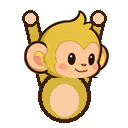
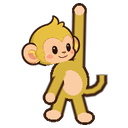
feat(B17): 원숭이 상점 아이콘을 실제 리그로 + 빈 팔 원통 이음매 제거 + 기동 Tree.Hit 오류 수정
- 빈 팔: 외곽선을 팔 중간(38%)부터 손까지만 - 어깨 쪽은 몸통과 털색으로 이어져 원통을 붙인 느낌이 사라진다
- 원숭이 아이콘: --make-icons (디버그 무인)가 CursorOrnament 를 SubViewport 에 두 배로 그려 icon.png 저장.
  바나나는 빼고 정사각형 - 상점 목록에서 원숭이가 크게 보인다. make-monkey-parts.py 는 아이콘을 안 만든다
- 기동 때 IndexOutOfRange (Tree.Hit): 슬롯 수가 바뀐 프레임에 타건이 나무 동기화보다 먼저 오던 경합.
  OnKeystrokes 가 먼저 SyncSlots, Hit 에 범위 검사

diff --git a/platform/OverlayShell.StoreShots.cs b/platform/OverlayShell.StoreShots.cs
@@ -39,6 +39,94 @@ public partial class OverlayShell
         "halo_01", "ring_01",
     };
 
+    private const string MakeIconsArg = "--make-icons";
+
+    /// <summary>
+    /// 원숭이 상점 아이콘을 실제 리그로 그려서 저장한다 (B17) - <c>assets/cursor/monkey/&lt;id&gt;/icon.png</c>.
+    /// 파이썬으로 리그를 흉내 내 그리면 게임의 원숭이와 달라진다. 디버그 빌드 무인 실행.
+    /// <code>Godot.exe --path . -- --make-icons</code> 뒤에 <c>--import</c> 를 다시 돌린다(게임은 임포트된 사본을 읽는다).
+    /// </summary>
+    private static bool IsMakeIconsRun() =>
+        OS.IsDebugBuild() && Array.IndexOf(OS.GetCmdlineUserArgs(), MakeIconsArg) >= 0;
+
+    private async void StartMakeIcons()
+    {
+        if (!IsMakeIconsRun())
+        {
+            return;
+        }
+
+        const int Icon = 128, Render = 2;
+        try
+        {
+            foreach (ItemManifest.Entry entry in ItemManifest.Items)
+            {
+                if (entry.Slot != CursorSlot.Monkey)
+                {
+                    continue;
+                }
+
+                // 두 배로 그려서 줄인다 - 외곽선이 매끈해진다. 원점(커서 끝) 기준 리그는 대략 x -45~+37, y 0~125 다.
+                var viewport = new SubViewport
+                {
+                    Size = new Vector2I(96 * Render, 132 * Render),
+                    TransparentBg = true,
+                    Disable3D = true,
+                    RenderTargetUpdateMode = SubViewport.UpdateMode.Always,
+                };
+                AddChild(viewport);
+                var ornament = new CursorOrnament
+                {
+                    Still = true,
+                    Position = new Vector2(50, 2) * Render,
+                    Scale = Vector2.One * Render,
+                };
+                viewport.AddChild(ornament);
+                // 바나나는 안 그린다 - 목록 칸(44px)에서 원숭이가 작아진다. 잡은 팔이 아이콘 위로 나가서 "매달린" 건 보인다.
+                ornament.Equip(CursorSlot.Monkey, entry.Id);
+
+                // 꼬리 사슬이 자리를 잡을 때까지 몇 프레임 굴린다
+                for (int i = 0; i < 20; i++)
+                {
+                    ornament.Tick(0.05);
+                    await ToSignal(RenderingServer.Singleton, "frame_post_draw");
+                }
+
+                Image image = viewport.GetTexture().GetImage();
+                // 정사각형으로 - 세로로 긴 그림을 그대로 줄이면 원숭이가 가늘어진다.
+                Rect2I used = image.GetUsedRect();
+                int side = Math.Max(used.Size.X, used.Size.Y);   // 머리 꼭대기가 잡은 손 높이와 비슷해서 높이 전부가 한 변이다
+                var square = new Rect2I(
+                    used.Position.X + used.Size.X / 2 - side / 2,
+                    used.End.Y - side,
+                    side,
+                    side);
+                Image cropped = Image.CreateEmpty(side, side, false, Image.Format.Rgba8);
+                image.Convert(Image.Format.Rgba8);
+                cropped.BlitRect(image, square, Vector2I.Zero);
+                float k = (Icon - 6f) / Math.Max(cropped.GetWidth(), cropped.GetHeight());
+                cropped.Resize(Math.Max(1, (int)(cropped.GetWidth() * k)), Math.Max(1, (int)(cropped.GetHeight() * k)), Image.Interpolation.Lanczos);
+
+                Image icon = Image.CreateEmpty(Icon, Icon, false, Image.Format.Rgba8);
+                cropped.Convert(Image.Format.Rgba8);
+                icon.BlitRect(cropped, new Rect2I(Vector2I.Zero, cropped.GetSize()),
+                    new Vector2I((Icon - cropped.GetWidth()) / 2, (Icon - cropped.GetHeight()) / 2));
+
+                string path = ProjectSettings.GlobalizePath(ItemManifest.IconPath(CursorSlot.Monkey, entry.Id));
+                icon.SavePng(path);
+                GD.Print($"[make-icons] {entry.Id} -> {path}");
+                viewport.QueueFree();
+            }
+
+            GetTree().Quit(0);
+        }
+        catch (Exception e)
+        {
+            GD.PrintErr($"[make-icons] 실패 - {e}");
+            GetTree().Quit(1);
+        }
+    }
+
     private static bool IsStoreShotRun() =>
         OS.IsDebugBuild() && Array.Exists(OS.GetCmdlineUserArgs(), a => a.StartsWith(StoreShotPrefix, StringComparison.Ordinal));
 

diff --git a/tools/make-monkey-parts.py b/tools/make-monkey-parts.py
@@ -11,7 +11,7 @@
 스킨마다 (assets/cursor/monkey/<id>/):
   head.png   머리 (털 색만 바꾼다 — 얼굴·귀 안쪽·외곽선은 그대로)
   skin.json  몸을 그릴 색 + 머리의 목·눈 좌표 + 장신구
-  icon.png   상점·도감 아이콘 (128x128) — 머리 + 간단한 몸
+  (icon.png 는 여기서 안 만든다 - 게임이 실제 리그로 그린다: Godot.exe --path . -- --make-icons)
 
 원숭이 목록·이름은 game/shop/items.json. 여기 SKINS 에 규칙이 없는 id 는 만들지 않는다.
 """
@@ -120,26 +120,6 @@ def draw_tufts(head, color):
     return head
 
 
-def icon_for(head, colors):
-    """상점 아이콘: 머리 + 짧은 몸과 들어 올린 팔 (리그 모습을 대충 흉내)."""
-    size = 128
-    c = Image.new("RGBA", (size, size), (0, 0, 0, 0))
-    d = ImageDraw.Draw(c)
-    fur, belly, ol = colors["fur"], colors["belly"], colors["outline"]
-    # 팔 (위로)
-    for x0, x1 in ((46, 30), (82, 98)):
-        d.line([(x0, 86), (x1, 18)], fill=ol + (255,), width=15)
-        d.line([(x0, 86), (x1, 18)], fill=fur + (255,), width=9)
-        d.ellipse((x1 - 8, 10, x1 + 8, 26), fill=belly + (255,), outline=ol + (255,), width=3)
-    # 몸
-    d.ellipse((38, 70, 90, 122), fill=fur + (255,), outline=ol + (255,), width=4)
-    d.ellipse((50, 84, 78, 116), fill=belly + (255,))
-    k = 86 / head.width
-    small = head.resize((round(head.width * k), round(head.height * k)), Image.LANCZOS)
-    c.alpha_composite(small, ((size - small.width) // 2 + 2, 78 - small.height))
-    return c
-
-
 def main():
     ids = [i["id"] for i in json.loads(ITEMS.read_text(encoding="utf-8"))["items"] if i["category"] == "monkey"]
     head, box = head_from_sheet()
@@ -162,7 +142,6 @@ def main():
         folder = OUT / item_id
         folder.mkdir(parents=True, exist_ok=True)
         h.save(folder / "head.png", optimize=True)
-        icon_for(h, colors).save(folder / "icon.png", optimize=True)
         skin = {
             "$comment": "tools/make-monkey-parts.py 가 만든다 - 손으로 고치지 않는다",
             "head": {"size": list(h.size), "neck": list(neck), "eyes": [list(e) for e in eyes]},

diff --git a/shared/Cursor/MonkeyRig.cs b/shared/Cursor/MonkeyRig.cs
@@ -81,6 +81,9 @@ public partial class MonkeyRig : Node2D
     private const float ArmWidth = 6f, LegWidth = 6.5f, LegLength = 15f, FreeArmLength = 20f;
     private const float TailSegment = 4.6f;
 
+    /// <summary>빈 팔의 외곽선이 시작되는 자리 (어깨 0 ~ 손 1). 그 앞은 몸통과 털색으로 이어진다.</summary>
+    private const float FreeArmOutlineFrom = 0.38f;
+
     /// <summary>빈 팔을 늘어뜨린 각도.</summary>
     private const float RestArm = 0.35f;
 
@@ -467,8 +470,10 @@ public partial class MonkeyRig : Node2D
 
         DrawCircle(grip, 3.6f, belly);
 
-        // 3) 빈 팔 - 몸 앞. 어깨 쪽 끝은 몸통 안에 묻혀서 외곽선 반원이 어깨 관절처럼 보인다.
-        Stroke(shoulderL, hand, ArmWidth + Edge, ol);
+        // 3) 빈 팔 - 몸 앞. **외곽선은 팔 중간부터 손까지만** 그린다. 어깨까지 외곽선을 두르면 둥근 끝이 "몸에
+        //    붙인 원통" 처럼 보였다 (2026-09-26 갑). 어깨 쪽은 털색끼리 이어져 몸에서 뻗어 나온 것처럼 보인다.
+        Vector2 outlineFrom = shoulderL.Lerp(hand, FreeArmOutlineFrom);
+        Stroke(outlineFrom, hand, ArmWidth + Edge, ol);
         DrawCircle(hand, 3.6f + Edge / 2, ol);
         Stroke(shoulderL, hand, ArmWidth, fur);
         DrawCircle(hand, 3.6f, belly);

diff --git a/platform/OverlayShell.cs b/platform/OverlayShell.cs
@@ -302,6 +302,7 @@ public partial class OverlayShell : Node2D, IShell, IPlatformServices
         ParseAutoReportArgs();
         StartMeasureFriends();
         StartStoreShot();
+        StartMakeIcons();
 
         GD.Print($"[shell] ready. screens={DisplayServer.GetScreenCount()} cores={_perf.Cores}");
     }
@@ -350,7 +351,8 @@ public partial class OverlayShell : Node2D, IShell, IPlatformServices
         // 앞으로 --net-selftest 같은 게 늘어도 같은 실수가 반복되지 않게 접미사로 잡는다.
         return Array.Exists(args, a => a.EndsWith("selftest", StringComparison.Ordinal))
             || Array.Exists(args, a => a.StartsWith("--report=", StringComparison.Ordinal))
-            || IsStoreShotRun();
+            || IsStoreShotRun()
+            || IsMakeIconsRun();
     }
 
     /// <summary>

diff --git a/game/GameRoot.cs b/game/GameRoot.cs
@@ -627,6 +627,11 @@ public partial class GameRoot : Node2D, IInteractiveArea, IPlatformConsumer
         int harvested = 0;
         int flashIndex = -1;
         IReadOnlyList<SlotState> slots = _platform.Economy.Slots;
+
+        // 나무 그림을 지금 슬롯에 먼저 맞춘다. 타건은 셸의 _Process(입력 헬퍼)에서 오고 나무 동기화는 이 노드의
+        // _Process 에서 하므로, 슬롯 수가 바뀐 프레임(기동 직후 서버 동기화, "가지 늘리기" 강화)에 타건이 먼저 오면
+        // Tree.Hit 이 모르는 인덱스를 받아 IndexOutOfRange 가 났다 (2026-09-26 갑이 기동 로그에서 봤다).
+        _tree.SyncSlots(slots);
         for (int k = 0; k < count; k++)
         {
             int readyIndex = FindReadySlot(slots);

diff --git a/game/entities/Tree.cs b/game/entities/Tree.cs
@@ -240,6 +240,12 @@ public partial class Tree : Node2D
     /// </summary>
     public bool Hit(int index)
     {
+        // 호출부(GameRoot.OnKeystrokes)가 먼저 SyncSlots 로 맞추지만, 틀어져도 게임을 죽이지 않는다.
+        if (index < 0 || index >= _hits.Length)
+        {
+            return false;
+        }
+
         if (++_hits[index] < HitsToDrop)
         {
             return false;

diff --git a/docs/B17-CURSOR-REWORK.md b/docs/B17-CURSOR-REWORK.md
@@ -17,7 +17,7 @@
 | 2 | 분류 재정의 (원숭이 · 바나나 · 장식) + 세이브 v9 + 전송 형식 v2 | ☑ 2026-09-26 — 커서·친구 창은 그림 한 장씩 임시 배치 |
 | 3 | 커서 레이어 재구성 — 고정 바나나 + 원숭이 리그 + 장식 1칸 | ☑ 2026-09-26 — `CursorOrnament` 를 커서 창·친구 창이 같이 쓴다 |
 | 4 | 원숭이 상태 머신 + 반응 | ◐ 1차 — 매달림·흔들림·버둥·놓침·신남·졸기. 체감 조정 남음 |
-| 5 | 아트 — 배경 제거 수정, 원숭이 부위 · 스킨, 바나나 변형, 장식 옮기기 | ◐ 배경 제거 수정 · 바나나 6종 · 원숭이 스킨 6종(머리 + 색) ☑ / 상점 아이콘을 리그 모습으로 ☐ |
+| 5 | 아트 — 배경 제거 수정, 원숭이 부위 · 스킨, 바나나 변형, 장식 옮기기 | ☑ 배경 제거 수정 · 바나나 6종 · 원숭이 스킨 6종(머리 + 색) · 원숭이 상점 아이콘은 게임이 실제 리그로 그린다(`--make-icons`) |
 | 6 | 파급 — 상점·도감·친구 창·도전과제·스토어·안내 | ☐ |
 | 7 | 성능 재측정 (A7 기준) + QA | ☐ |
 
@@ -305,4 +305,19 @@ CursorWindow (클릭 통과 투명 창, 192x192 — 예전 128)
 - **커서 창이 메인 창 뒤로 갔다** — 메인·친구·커서 창이 전부 "항상 위" 라 그들 사이 순서는 마지막에 활성화된 쪽이
   위다. `CursorLayer.BringToFront()` 가 `SetWindowPos(HWND_TOPMOST, 활성화 안 함)` 으로 다시 올린다 — 셸 0.5초 틱,
   메인 창 포커스, 친구 창 열 때
+- **빈 팔이 원통을 붙인 것처럼 보였다** — 몸 앞으로 옮기면서 어깨 끝까지 외곽선을 둘러서 둥근 끝이 보였다. 외곽선은 팔 길이의
+  38% 지점부터 손까지만 그린다(`FreeArmOutlineFrom`) — 어깨 쪽은 털색끼리 이어져 몸에서 뻗어 나온다
+
+### 9-3. 원숭이 상점 아이콘 = 실제 리그
+
+`Godot.exe --path . -- --make-icons` (디버그 무인 실행)가 원숭이마다 `CursorOrnament` 를 두 배 크기 SubViewport 에 그려
+`icon.png` 로 저장한다 — 파이썬으로 리그를 흉내 내면 게임 원숭이와 달라진다. 바나나는 빼고(목록 칸 44px 에서 원숭이가
+작아진다) 정사각형으로 자른다. **저장한 뒤 `--import` 를 다시 돌려야 게임이 새 아이콘을 읽는다.** `make-monkey-parts.py`
+는 이제 아이콘을 안 만든다.
+
+### 9-4. 곁가지로 고친 것 — 기동 때 `Tree.Hit` IndexOutOfRange (갑이 로그에서 봄)
+
+타건은 셸 `_Process`(입력 헬퍼)에서 오고 나무 동기화는 `GameRoot._Process` 에서 한다. 슬롯 수가 바뀐 프레임(기동 직후 서버
+동기화, "가지 늘리기")에 타건이 먼저 오면 나무가 모르는 인덱스를 쳤다. `OnKeystrokes` 가 먼저 `SyncSlots` 하고, `Hit` 에도
+범위 검사를 넣었다. B17 과 무관한 예전 경합이다.
 
